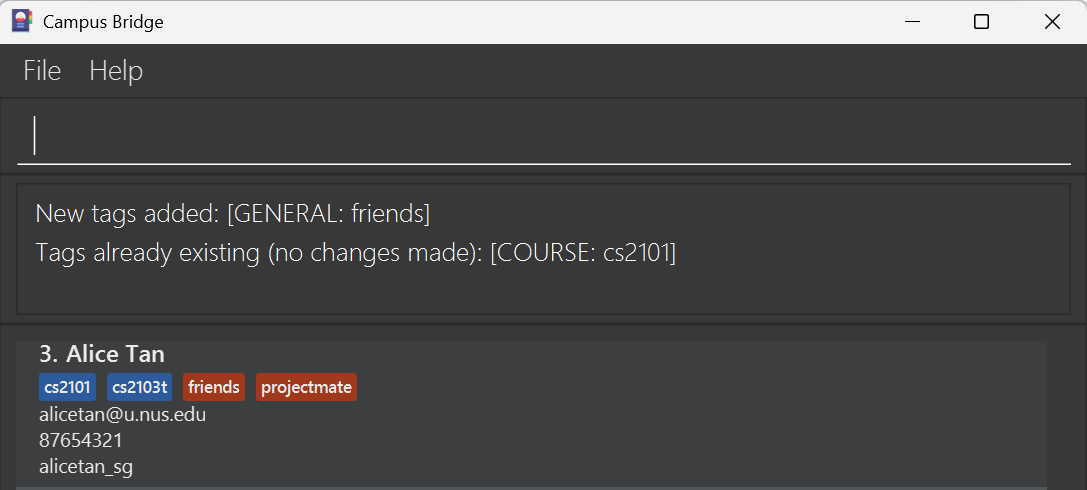
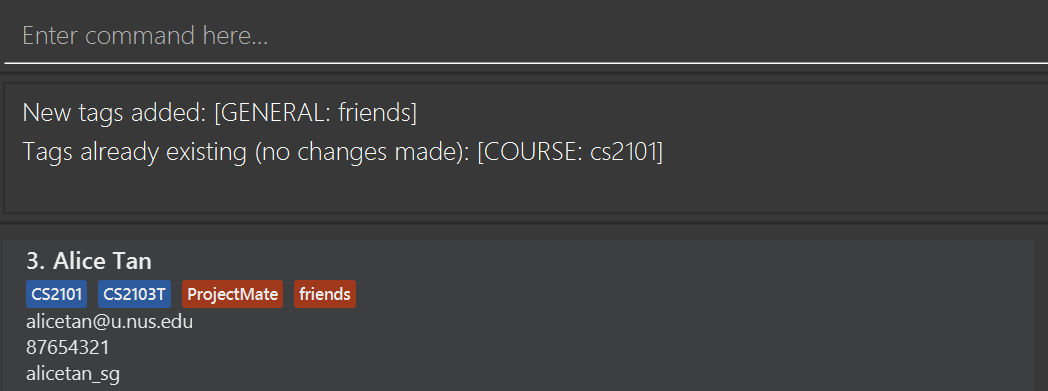
Update tag specifications in UG

diff --git a/docs/UserGuide.md b/docs/UserGuide.md
@@ -61,13 +61,19 @@ CampusBridge supports three tag types, each displayed in a distinct colour:
 * `tc/COURSE_TAG` — creates a Course tag
 * `tg/GENERAL_TAG` — creates a General tag
 
-**Tag constraints:**
-* Tags are **case-insensitive** — `tr/Friends`, `tr/FRIENDS` and `tr/friends` are all treated as `tr/friends`.
-* Tag names are automatically **converted to lowercase** for storage and display (e.g., `ProjectMate` &rarr; `projectmate`).
-* Tag names must be **alphanumeric**.
-    * Only letters A-Z, a-z, and number 0-9 are allowed.
-    * Spaces and special characters (e.g `@`, `#`, `-`, `!`, `_`) are not allowed.
-* Each tag name must be unique within its type — you cannot create two Role tags with the same name, but a Role tag and a General tag can share the same name.
+**Tag naming constraints:**
+* Tag names must be **alphanumeric** (letters A-Z, a-z, and number 0-9 only).
+* Spaces and special characters (e.g `@`, `#`, `-`, `!`, `_`) are **not** allowed.
+
+**Case handling:**
+* Tags are **case-insensitive** — `tr/Friends`, `tr/FRIENDS` and `tr/friends` are considered the same tag.
+* **First occurrence priority**: When duplicate tags with different casing appear in the same command, the **first occurrence's casing** is preserved and stored. 
+* **Original casing is preserved** — the first time a tag is added (or the first occurrence in a command), its casing is how the tag will be displayed. 
+* Subsequent additions with different casing will match the existing tag (case-insensitively) and will not change the display casing.
+
+**Uniqueness:**
+* Tag names must be unique within their type — you cannot create two Role tags with the same name.
+* Different tag types can share the same name (e.g. a Role tag `mentor` and a General tag `mentor` can both exist).
 
 ### Email validation
 
@@ -281,8 +287,9 @@ Adds one or more tags to an existing person in the address book.
 **Behavior:**
 * Adds tags to the person at the specified `INDEX`.
 * The index refers to the index number shown in the displayed person list.
-* Existing tags will be preserved. New tags are appended.
 * Tag matching is **case-insensitive** (e.g. `friends` and `FRIENDS` are considered the same).
+* **First occurrence priority:** When duplicate tags with different casing are provided in the same command (e.g. `tc/cs2103 tc/CS2103`), the **first occurrence's casing** is preserved and stored.
+* Existing tags will be preserved. New tags are appended.
 * If some tags already exist, only new ones are added. A message will show which tags were added and skipped.
 * If all tags already exist, an error message will be shown and no changes will be made.
 
@@ -301,6 +308,10 @@ Adds the `tutor` role tag, `cs2103` course tag and `helpful` general tag to the 
 Adds the `friends` general tag to the 3rd person in the displayed list and shows `cs2101` course tag already exists.
 ![result for 'tag 3 tc/cs2101 tg/friends'](images/tagPartialSuccessResult.png)
 
+* `tag 3 tc/cs2103 tc/CS2103`<br/>
+Adds the `cs2103` course tag to the 3rd person in the displayed list. The duplicate `CS2103` is ignored, and the first occurrence's casing (`cs2103`) is preserved.
+![result for 'tag 3 tc/cs2103 tc/CS2103'](images/tagFirstOccurrencePriorityResult.png)
+
 ### Untagging a person : `untag`
 
 Removes one or more tags from an existing person in the address book.
@@ -318,9 +329,10 @@ Removes one or more tags from an existing person in the address book.
 **Behavior:**
 * Removes the specified tags from the person at the given `INDEX`.
 * The index refers to the index number shown in the displayed person list.
+* Tag matching is **case-insensitive** (e.g. `friends` and `FRIENDS` are considered the same).
+* The casing of the tags provided does not need to match the stored/displayed casing — the tag will be removed regardless.
 * Only tags currently assigned to the person will be removed.
 * Existing tags that are not specified will remain unchanged.
-* Tag matching is **case-insensitive** (e.g. `friends` and `FRIENDS` are considered the same).
 * If some tags exist and others don't, the existing ones will be removed. A message will show which tags were not found.
 * If none of the specified tags exist, an error message will be shown and no changes will be made.
 
@@ -335,8 +347,9 @@ Removes the `friends` general tag from the 1st person in the list.
 * `untag 2 tr/tutor tc/cs2103 tg/classmates`<br/>
 Removes the `tutor` role tag, `cs2103` course tag and `classmates` general tag from the 2nd person in the list.
 
-* `untag 3 tc/cs2103 tc/cs2109`<br/>
-Removes both `cs2103` and `cs2109` course tags from the 3rd person in the list.
+* `untag 3 tc/cs2101 tc/cs2103`<br/>
+Removes both `cs2101` and `cs2103` course tags from the 3rd person in the list.
+![result for 'untag 3 tc/cs2101 tc/cs2103'](images/untagSuccessResult.png)
 
 ### Clearing all tags of a specific type : `cleartag`
 
@@ -366,6 +379,7 @@ Clears all general tags from the 1st person in the displayed list.
 
 * `cleartag 2 tr/`<br/>
 Clears all role tags from the 2nd person in the displayed list.
+![result for 'cleartag 2 tr/'](images/cleartagSuccessResult.png)
 
 ### Listing all persons : `list`
 
@@ -612,7 +626,7 @@ Action | Format, Examples
 **Untag** | `untag INDEX [tr/ROLE_TAG]… [tc/COURSE_TAG]… [tg/GENERAL_TAG]…`<br> e.g., `untag 3 tr/tutor tc/cs2103`
 **Undo** | `undo`
 
-## Keyboard Shortcuts Summary
+## Keyboard shortcuts summary
 
 ### Windows / Linux
 
